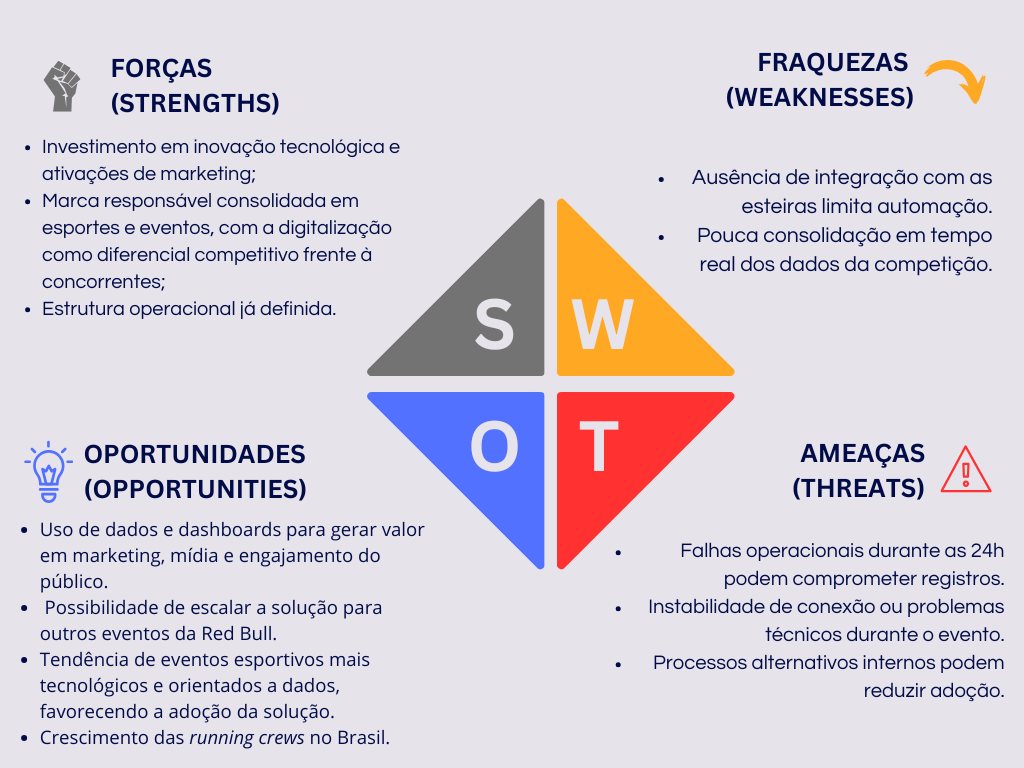
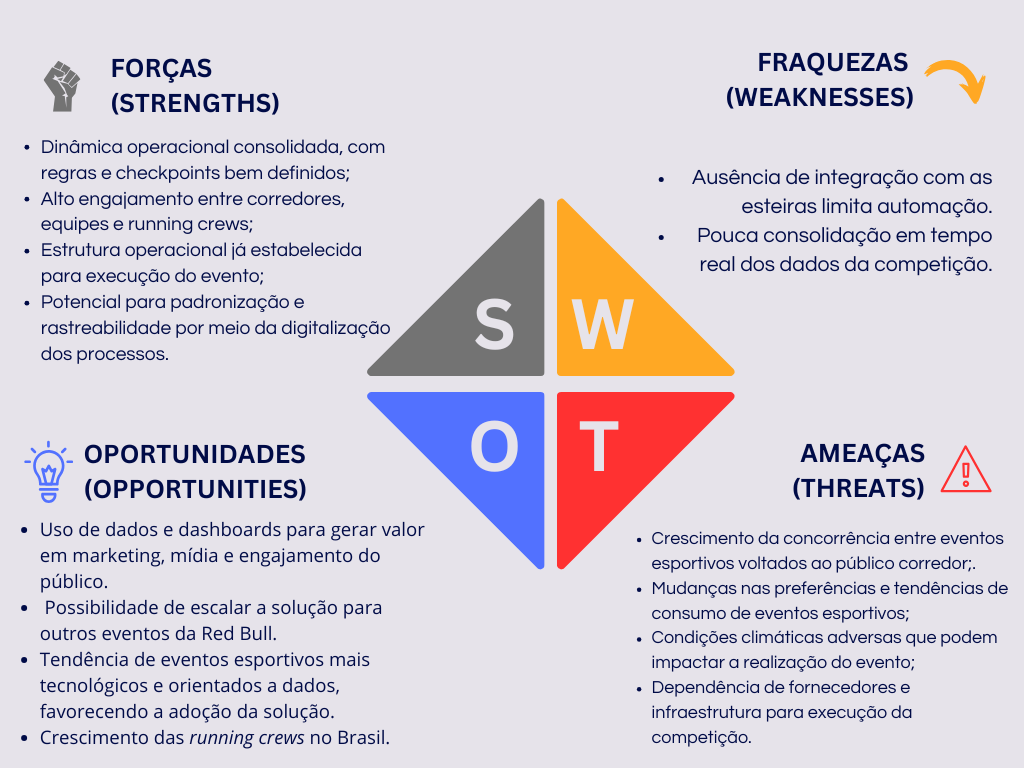
docs(#509): padroniza análises SWOT e Cinco Forças de Porter
- Alinha os itens da matriz SWOT entre texto e representação visual
- Atualiza o quadrante de Forças para refletir a dinâmica operacional do evento e o contexto da solução proposta
- Ajusta o quadrante de Ameaças, substituindo riscos operacionais por fatores externos compatíveis com a metodologia SWOT
- Padroniza a terminologia utilizada entre os artefatos textuais e gráficos
- Corrige inconsistências conceituais identificadas entre imagem e documentação
- Revisa a análise das Cinco Forças de Porter para garantir aderência entre texto e figura
- Padroniza a classificação da Ameaça de Substitutos entre os artefatos
- Refina as descrições das forças competitivas para refletir corretamente o contexto do Red Bull 24 Horas
- Ajusta a representação visual para manter consistência com as justificativas apresentadas na documentação

Refs: #509 #510
Closes: #509 #510

Changed region(s): [[0.625, 0.6875, 1.0, 0.9688], [0.0312, 0.1875, 0.375, 0.4688]]

diff --git a/documentos/wad.md b/documentos/wad.md
@@ -76,9 +76,9 @@ A ameaça de novos entrantes é considerada média, pois a entrada de novos dese
 
 O Red Bull 24 Horas apresenta características próprias, tal qual operações contínuas por 24 horas, rotatividade de usuários, pressão por rapidez e necessidade de confiabilidade no registro dos dados, nesse cenário, é possível verificar que esses fatores dificultam a criação de soluções verdadeiramente aderentes sem conhecimento aprofundado da dinâmica operacional. Dessa forma, embora novos entrantes possam desenvolver sistemas similares, a replicação de uma solução efetivamente integrada à realidade do evento representa uma barreira prática relevante.
 
-#### 3. Ameaça de produtos ou serviços substitutos (ALTA)
+#### 3. Ameaça de produtos ou serviços substitutos (MUITO ALTA)
 
-A ameaça de substitutos é considerada alta, pois o principal substituto da solução proposta é o próprio método atualmente utilizado pela operação, baseado em registros manuais realizados em pranchetas pelos operadores do evento. Apesar de apresentar limitações relacionadas a erros de preenchimento, retrabalho e ausência de auditabilidade estruturada, esse processo possui vantagens operacionais relevantes, como baixo custo de implementação, independência tecnológica e elevada familiaridade por parte da equipe responsável pela apuração.
+A ameaça de substitutos é considerada muito alta, pois o principal substituto da solução proposta é o próprio método atualmente utilizado pela operação, baseado em registros manuais realizados em pranchetas pelos operadores do evento. Apesar de apresentar limitações relacionadas a erros de preenchimento, retrabalho e ausência de auditabilidade estruturada, esse processo possui vantagens operacionais relevantes, como baixo custo de implementação, independência tecnológica e elevada familiaridade por parte da equipe responsável pela apuração.
 
 Diferentemente de soluções digitais concorrentes, que disputam espaço tecnológico no mercado, o registro manual representa um substituto diretamente integrado à cultura operacional do evento, já consolidado na dinâmica da competição. Nesse contexto, a principal ameaça não é necessariamente tecnológica, mas comportamental, uma vez que a adoção da nova solução depende da percepção clara de ganhos em rapidez, simplicidade, confiabilidade e redução de esforço operacional.
 
@@ -278,7 +278,7 @@ Para identificar e priorizar os principais riscos do projeto, foi elaborada a ma
 | Oportunidade | Descrição | Probabilidade | Impacto | Classificação | Plano de Resposta |
 |--------------|----------|--------------|--------|--------------|-------------------|
 | Maior precisão nos dados coletados | A substituição do input manual por OCR reduz erros de digitação identificados no risco de erro humano. | 90% ( Muito Alto) | Alto | Alta Prioridade | Garantir uma alternativa de entrada manual com validação para evitar inconsistências em casos de falhas do OCR. |
-| Melhor acompanhamento operacional do evento | Dados atualizados em tempo real permitem maior visibilidade do andamento da competição, facilitando o monitoramento das equipes e a organização operacional do evento. | 60% (Média) | Alto | Alta Prioridade | Desenvolver interfaces claras e dashboards de rápida interpretação. |
+| Melhor acompanhamento operacional do evento | Dados atualizados em tempo real permitem maior visibilidade do andamento da competição, facilitando o monitoramento das equipes e a organização operacional do evento. | 60% (Média) | Muito Alto | Alta Prioridade | Desenvolver interfaces claras e dashboards de rápida interpretação. |
 | Aumento da eficiência operacional | A automação reduz atividades manuais e retrabalho da equipe operacional durante o evento. | 90% (Muito Alto) | Muito Alto | Alta Prioridade | Automatizar fluxos operacionais e minimizar entradas manuais. |
 | Possível reutilização do sistema | Projeto pode ser reutilizado em outros eventos esportivos da Red Bull. | 10% (Muito Baixo) | Médio | Baixa Prioridade | Estruturar sistema modular e escalável. |
 | Menor perda de dados durante o evento | O uso de checkpoints digitais permite maior precisão histórica e reduz perdas de dados. | 50% (Médio) | Alto | Alta Prioridade | Otimizar o processamento das capturas sem comprometer a estabilidade do sistema. |
